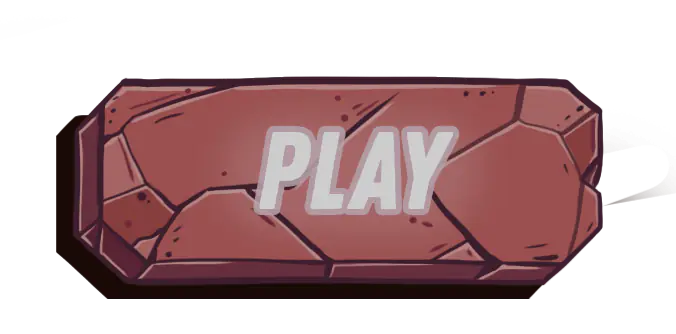
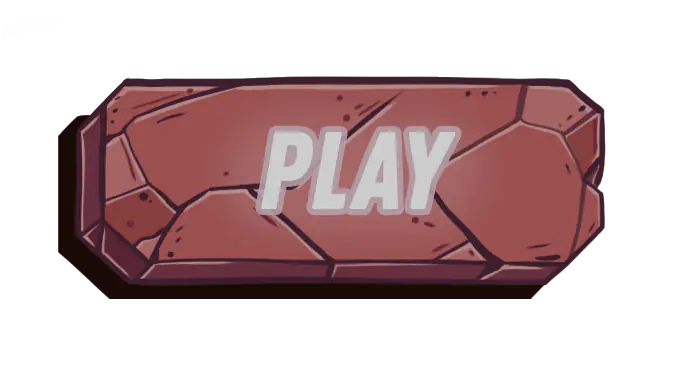
copia 9

diff --git a/Tiled/Js/game.js b/Tiled/Js/game.js
@@ -184,6 +184,110 @@ const itemDefinitions = {
         imagePath: './Tarjetas/Sweet Nightmare/Tarjeta El Chamuco_S.webp',
         dialogueImagePath: './Tarjetas/Sweet Nightmare/Tarjeta El Chamuco_S.webp',
     },
+    'Tarjeta Lola': {
+        name: 'Tarjeta Lola',
+        imagePath: './Tarjetas/Comidin/Tarjeta Lola_S.webp',
+        dialogueImagePath: './Tarjetas/Comidin/Tarjeta Lola_S.webp',
+        text: "Historia en construcción , disculpa las molestias (٥̲̅_̅٥̲̅)" // Se mantiene la descripción proporcionada
+    },
+    'Tarjeta Sandwich': {
+        name: 'Tarjeta Sandwich',
+        imagePath: './Tarjetas/Comidin/Tarjeta Sandwich_S.webp',
+        dialogueImagePath: './Tarjetas/Comidin/Tarjeta Sandwich_S.webp',
+        text: "Historia en construcción , disculpa las molestias (٥̲̅_̅٥̲̅)"
+    },
+    'Tarjeta Ryan': {
+        name: 'Tarjeta Ryan',
+        imagePath: './Tarjetas/Comidin/Tarjeta Ryan_S.webp', // Asegúrate de que esta ruta sea correcta
+        dialogueImagePath: './Tarjetas/Comidin/Tarjeta Ryan_S.webp', // Asegúrate de que esta ruta sea correcta
+        text: "Ryan la piña es cool como ninguna otra, siente una gran atracción hacia la pizza pero es incapaz de decirlo_NEXT_ya que para muchos no es natural, le encanta el surf y odia los chistes de piñas coladas"
+    },
+    'Tarjeta HotDog': {
+        name: 'Tarjeta HotDog',
+        imagePath: './Tarjetas/Comidin/Tarjeta HotDog_S.webp',
+        dialogueImagePath: './Tarjetas/Comidin/Tarjeta HotDog_S.webp',
+        text: "Historia en construcción , disculpa las molestias (٥̲̅_̅٥̲̅)"
+    },
+    'Tarjeta Jean': {
+        name: 'Tarjeta Jean',
+        imagePath: './Tarjetas/Comidin/Tarjeta Jean_S.webp',
+        dialogueImagePath: './Tarjetas/Comidin/Tarjeta Jean_S.webp',
+        text: "Historia en construcción , disculpa las molestias (٥̲̅_̅٥̲̅)"
+    },
+    'Tarjeta BigMike': {
+        name: 'Tarjeta BigMike',
+        imagePath: './Tarjetas/Comidin/Tarjeta BigMike_S.webp',
+        dialogueImagePath: './Tarjetas/Comidin/Tarjeta BigMike_S.webp',
+        text: "Historia en construcción , disculpa las molestias (٥̲̅_̅٥̲̅)"
+    },
+    'Tarjeta BernardoNancy': {
+        name: 'Tarjeta BernardoNancy',
+        imagePath: './Tarjetas/Comidin/Tarjeta BernardoNancy_S.webp',
+        dialogueImagePath: './Tarjetas/Comidin/Tarjeta BernardoNancy_S.webp',
+        text: "Historia en construcción , disculpa las molestias (٥̲̅_̅٥̲̅)"
+    },
+    'Tarjeta Zanahoria': {
+        name: 'Tarjeta Zanahoria',
+        imagePath: './Tarjetas/Comidin/Tarjeta Zanahoria_S.webp',
+        dialogueImagePath: './Tarjetas/Comidin/Tarjeta Zanahoria_S.webp',
+        text: "Historia en construcción , disculpa las molestias (٥̲̅_̅٥̲̅)"
+    },
+    'Tarjeta Aguacate': {
+        name: 'Tarjeta Aguacate',
+        imagePath: './Tarjetas/Comidin/Tarjeta Aguacate_S.webp',
+        dialogueImagePath: './Tarjetas/Comidin/Tarjeta Aguacate_S.webp',
+        text: "Historia en construcción , disculpa las molestias (٥̲̅_̅٥̲̅)"
+    },
+    'Tarjeta Margarita': {
+        name: 'Tarjeta Margarita',
+        imagePath: './Tarjetas/Comidin/Tarjeta Margarita_S.webp',
+        dialogueImagePath: './Tarjetas/Comidin/Tarjeta Margarita_S.webp',
+        text: "Historia en construcción , disculpa las molestias (٥̲̅_̅٥̲̅)"
+    },
+    'Tarjeta Jack': {
+        name: 'Tarjeta Jack',
+        imagePath: './Tarjetas/Comidin/Tarjeta Jack_S.webp',
+        dialogueImagePath: './Tarjetas/Comidin/Tarjeta Jack_S.webp',
+        text: "Jack era un trozo de pizza que fue olvidado por accidente en la caja, día a día se fue dañando y perdiendo la conciencia hasta volverse un zombie_NEXT_ahora va dañando al resto de las comidas en venganza por ser olvidado."
+    },
+    'Tarjeta Chocolatina': {
+        name: 'Tarjeta Chocolatina',
+        imagePath: './Tarjetas/Comidin/Tarjeta Chocolatina_S.webp',
+        dialogueImagePath: './Tarjetas/Comidin/Tarjeta Chocolatina_S.webp',
+        text: "En algún lugar de Villa Comidín, unos increíbles y exquisitos granos de cacao, conocidos por ser demasiado secos y amargos pero grandes exploradores, emprendieron uno de sus viajes._NEXT_ Durante su travesía, se encontraron con Lola, una dulce y tierna caja de leche. Juntos descubrieron que podían crear algo suave y delicioso_NEXT_ ¡Choco! Una gran chocolatina con una cubierta brillante destinada a conquistar los paladares más golosos y atraerlos con su irresistible aroma."
+    },
+    'Tarjeta Carne Manga': { // Fíjate en el espacio en el nombre si así lo tienes en Tiled
+        name: 'Tarjeta Carne Manga',
+        imagePath: './Tarjetas/Comidin/Tarjeta CarneManga_S.webp',
+        dialogueImagePath: './Tarjetas/Comidin/Tarjeta CarneManga_S.webp',
+        text: "En un mercado muy peculiar de villa comidin, había una carne manga tan tierna que era famosa por su jugosidad y su peculiaridad_NEXT_ ¡se podía sacar el hueso con carita feliz! Los chefs del lugar siempre contaban la leyenda de cómo esa carne había sido bendecida por una vieja bruja del bosque_NEXT_quien le había otorgado esa cualidad especial para traer alegría a quienes la preparaban y la disfrutaban.Cada día_NEXT_los clientes del mercado se maravillaban al ver cómo los chefs expertos en esta carne realizaban el ritual de extraer el hueso con sonrisa, asegurando que la carne fuera perfecta para la preparación._NEXT_ Era un espectáculo que no solo alimentaba los estómagos, sino también el espíritu de quienes lo presenciaban. _NEXT_ Así, la carne manga con su hueso de carita feliz se convirtió en la estrella indiscutible del mercado, uniendo a la gente en torno a su deliciosa y encantadora singularidad."
+    },
+    'Tarjeta Chocofresa': {
+        name: 'Tarjeta Chocofresa',
+        imagePath: './Tarjetas/Comidin/Tarjeta Chocofresa_S.webp',
+        dialogueImagePath: './Tarjetas/Comidin/Tarjeta Chocofresa_S.webp',
+        text: "Historia en construcción , disculpa las molestias (٥̲̅_̅٥̲̅)"
+    },
+    'Tarjeta Yemin-Eggtor': {
+        name: 'Tarjeta Yemin-Eggtor',
+        imagePath: './Tarjetas/Comidin/Tarjeta Yemin-Eggtor_S.webp',
+        dialogueImagePath: './Tarjetas/Comidin/Tarjeta Yemin-Eggtor_S.webp',
+        text: "Historia en construcción , disculpa las molestias (٥̲̅_̅٥̲̅)"
+    },
+    'Tarjeta Cafesito': {
+        name: 'Tarjeta Cafesito',
+        imagePath: './Tarjetas/Comidin/Tarjeta Cafesito_S.webp',
+        dialogueImagePath: './Tarjetas/Comidin/Tarjeta Cafesito_S.webp',
+        text: "Historia en construcción , disculpa las molestias (٥̲̅_̅٥̲̅)"
+    },
+    'Tarjeta Sandy': {
+        name: 'Tarjeta Sandy',
+        imagePath: './Tarjetas/Comidin/Tarjeta Sandy_S.webp',
+        dialogueImagePath: './Tarjetas/Comidin/Tarjeta Sandy_S.webp',
+        text: "Sandy la sandia es una de las hijas de la gran sandia, ella siempre vive alegre y le encanta comer Hamburguesas."
+    },
+   
+   
     // Añade más ítems aquí a medida que los crees en Tiled y les asignes 'itemToAdd'
 };
 
@@ -395,8 +499,8 @@ if (mapData && Object.keys(mapInteractions).length > 0) { // <--- ¡¡¡AÑADE E
     }
 }
     // Dibujar los polígonos de colisión para depuración
-    debugDrawCollisionPolygons(ctx);
-    debugDrawPlayerCollider(ctx);
+    //debugDrawCollisionPolygons(ctx);
+   // debugDrawPlayerCollider(ctx);
 
     // ¡SECCIÓN MODIFICADA!: Dibujar el Cuadro de Texto de Diálogo Estilo RPG
  // --- Dibujo ---
@@ -407,8 +511,8 @@ if (mapData && Object.keys(mapInteractions).length > 0) { // <--- ¡¡¡AÑADE E
 
     
     // ¡DESCOMENTADAS!: Dibujar los polígonos de colisión para depuración
-    debugDrawCollisionPolygons(ctx); 
-    debugDrawPlayerCollider(ctx); // Asegúrate de que esta función exista y esté exportada en player.js
+  //  debugDrawCollisionPolygons(ctx); 
+  //  debugDrawPlayerCollider(ctx); // Asegúrate de que esta función exista y esté exportada en player.js
 
     requestAnimationFrame(gameLoop);
 

diff --git a/Tiled/index.html b/Tiled/index.html
@@ -463,7 +463,12 @@
         object-fit: contain;
       
     }
+  #startButton {
+        width: 168px;   /* Ancho deseado del botón */
+        height: 93px;
 
+
+  }
     }
  #startScreen {
     position: fixed; /* Lo fija en la pantalla, ignorando el scroll */
@@ -475,15 +480,15 @@
     flex-direction: column; /* Apila los elementos verticalmente */
     justify-content: center; /* Centra los elementos verticalmente */
     align-items: center; /* Centra los elementos horizontalmente */
-    background-color: #1a1a1a; /* Color de fondo de fallback si la imagen no carga */
-    /*
+    align-content: flex-start;
+      /*
      * ¡IMAGEN DE FONDO!
      * --- CAMBIA ESTA RUTA ---
      * Reemplaza 'url(../img/StartScreenBackground.webp)' por la RUTA REAL a tu imagen de inicio.
      * Asegúrate de que la ruta sea correcta y relativa desde la ubicación de este archivo CSS.
      * Por ejemplo, si tu style.css está en 'css/' y tu imagen en 'img/', entonces es '../img/nombre-de-tu-imagen.webp'.
      */
-    background-image: url('../img/StartScreenBackground.webp'); /* <-- ¡¡¡CAMBIA ESTA RUTA POR LA DE TU IMAGEN!!! */
+    background-image: url('./img/Mapa Home.webp'); /* <-- ¡¡¡CAMBIA ESTA RUTA POR LA DE TU IMAGEN!!! */
     background-size: cover; /* Cubre toda el área del contenedor */
     background-position: center; /* Centra la imagen de fondo */
     background-repeat: no-repeat; /* Evita que la imagen se repita */
@@ -500,46 +505,96 @@
 }
 
 #gameTitle {
+   
     font-size: clamp(3em, 8vw, 6em); /* Título responsivo y grande */
     color: #FFD700; /* Color dorado */
     text-shadow: 4px 4px 10px rgba(0, 0, 0, 0.8); /* Sombra para resaltar */
-    margin-bottom: 20px;
+    margin-bottom: 5px;
     user-select: none; /* Evita que el texto se pueda seleccionar con el mouse */
 }
 
 #gameSubtitle {
+
+    
     font-size: clamp(1em, 2.5vw, 2em); /* Subtítulo responsivo */
     color: #E0E0E0; /* Gris claro */
     text-shadow: 2px 2px 5px rgba(0, 0, 0, 0.7);
-    margin-bottom: 40px;
+    margin-bottom: 110px;
     user-select: none;
 }
 
-#startButton {
-    background-color: #663399; /* Color morado estilo RPG */
-    color: white;
-    font-size: clamp(1.2em, 3vw, 2.5em); /* Tamaño responsivo del botón */
-    padding: 15px 30px;
-    border: 3px solid #9966CC; /* Borde más claro */
-    border-radius: 10px; /* Bordes redondeados */
-    cursor: pointer; /* Indica que es un elemento interactivo */
-    box-shadow: 5px 5px 15px rgba(0, 0, 0, 0.6); /* Sombra para dar profundidad */
-    transition: background-color 0.3s ease, transform 0.1s ease, box-shadow 0.3s ease; /* Transiciones suaves */
-    user-select: none;
-    -webkit-tap-highlight-color: transparent; /* Elimina el resaltado azul en móvil */
-}
+  #startButton {
+        /* Tamaño fijo para el botón, ajusta estos valores según el tamaño de tus imágenes de botón */
+        width: 339px;   /* Ancho deseado del botón */
+        height: 186px;   /* Alto deseado del botón */
+       
+        /* Oculta el texto original del botón, ya que usaremos una imagen */
+        
 
-#startButton:hover {
-    background-color: #9966CC; /* Cambia de color al pasar el ratón */
-    transform: translateY(-3px); /* Efecto de "levantar" */
-    box-shadow: 5px 8px 20px rgba(0, 0, 0, 0.8); /* Sombra más pronunciada */
-}
+        /* Propiedades de la imagen de fondo para el estado NORMAL */
+        background-image: url('./img/Boton%20Play_01.webp'); /* <-- RUTA PARA EL BOTÓN NORMAL (¡verifica!) */
+        background-size: contain; /* Ajusta la imagen dentro del botón sin cortarla */
+        background-position: center; /* Centra la imagen */
+        background-repeat: no-repeat; /* Evita que la imagen se repita */
+        margin-top: 50px;
+        /* Otras propiedades visuales del botón */
+        background-color: transparent; /* Fondo transparente para que solo se vea la imagen */
+        border: none; /* Elimina cualquier borde si lo tenías */
+        border-radius: 0; /* Elimina cualquier redondeo si lo tenías (la imagen definirá la forma) */
+        cursor: pointer;
+        box-shadow: none; /* Elimina la sombra si la imagen ya tiene su propia sombra */
+    
+        /* Transición para suavizar el cambio de imagen y otros efectos */
+        transition: background-image 0.3s ease-in-out, transform 0.1s ease-out;
+        user-select: none;
+        -webkit-tap-highlight-color: transparent;
+    }
 
-#startButton:active {
-    background-color: #4C2673; /* Color al hacer clic */
-    transform: translateY(0); /* Vuelve a su posición original */
-    box-shadow: 3px 3px 10px rgba(0, 0, 0, 0.5); /* Sombra más pequeña */
-}
+    #startButton:hover {
+        /* Propiedad de la imagen de fondo para el estado HOVER */
+        background-image: url('./img/Boton%20Play_02.webp'); /* <-- RUTA PARA EL BOTÓN HOVER (¡verifica!) */
+        transform: translateY(-3px); /* Efecto de "levantar" */
+        /* Si quieres una sombra en hover, añade: */
+        /* box-shadow: 0 8px 16px rgba(0, 0, 0, 0.8); */
+    }
+
+    #startButton:active {
+        /* Propiedad de la imagen de fondo para el estado ACTIVE (al hacer clic) */
+       background-image: url('./img/Boton%20Play_03.webp'); /* <-- ¡VOLVEMOS A USAR Boton Play_03.webp para el clic/tap! */
+        /* Puedes ajustar el transform si quieres que se vea más "hundido" al hacer clic: */
+        transform: translateY(1px); /* Un pequeño hundimiento al hacer clic/tocar */
+        /* ... el resto de las propiedades para :active ... */
+    }
+
+    #instructionsPanel {
+        margin-top: 1px; /* Espacio superior para separarlo del botón */
+        padding: 20px 30px;
+       
+        border-radius: 10px; /* Bordes redondeados */
+        text-align: center;
+        max-width: 80%; /* Ancho máximo para que no sea demasiado largo en pantallas grandes */
+        font-family: 'Press Start 2P', Arial, sans-serif;
+        font-size: clamp(0.7em, 1.8vw, 1.2em); /* Tamaño de fuente responsivo */
+        line-height: 1; /* Espaciado entre líneas para mejor lectura */
+        margin-bottom: 0;
+        user-select: none;
+    }
+
+    #instructionsPanel p {
+        margin-bottom: 8px; /* Espacio entre cada línea de instrucción */
+        color: #E0E0E0; /* Color de texto claro */
+    }
+
+    #instructionsPanel p:last-child {
+        margin-bottom: 0; /* Sin margen inferior en la última línea */
+    }
+
+    /* Estilo para resaltar las teclas */
+    .key-highlight {
+        color: #FFD700; /* Color dorado para las teclas */
+        font-weight: bold;
+        text-shadow: 1px 1px 2px rgba(0, 0, 0, 0.4);
+    }
 
 </style>
 </head>
@@ -548,7 +603,15 @@
     <div id="startScreen">
     <h1 id="gameTitle">Angel Geek</h1>
     <p id="gameSubtitle">Conociendo un nuevo mundo</p>
-    <button id="startButton">Iniciar Juego</button>
+    <button id="startButton"></button>
+<!-- NUEVO: Panel de Instrucciones -->
+    <div id="instructionsPanel">
+        <p><strong>Recolecta las tarjetas y conoce las historias de las adorables criaturas del nuevo mundo</strong></p>
+        <p><strong>Movimiento:</strong> Teclas <span class="key-highlight">W A S D</span> / <span class="key-highlight">Flechas</span></p>
+        <p><strong>Inventario:</strong> Presiona <span class="key-highlight">I</span></p>
+        <p><strong>Diálogo:</strong> Presiona <span class="key-highlight">Enter</span> / <span class="key-highlight">Clic</span></p>
+    </div>
+
 </div>
     <canvas id="gameCanvas"></canvas>
 
